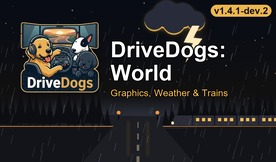
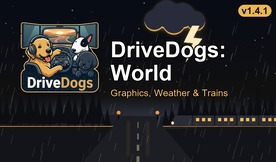
release world 1.4.1 after the playtest: wet roads no longer a mirror (sky mirror 0.5), deeper wheel tracks at 2048, junction wheel tracks, less wet heavy rain and storms

Changed region(s): [[0.7536, 0.0, 0.9855, 0.1235]]

diff --git a/docs/adr/ADR-0002-world-graphics.md b/docs/adr/ADR-0002-world-graphics.md
@@ -2,6 +2,7 @@
 
 - Status: accepted
 - Date: 2026-10-01
+- Amended: 2026-10-31 (1.4.1: wet roads no longer a mirror; decisions 4, 6 and 8)
 
 ## Context
 
@@ -35,6 +36,7 @@
    (`tools/night_climate.py`, `world/climate.yaml`):
    - Rain mix: variants grouped by sky into light/medium/heavy/storm; rain amount and wetness clamped into the
      class; lightning only in the storm class; integer `weight`s for shares day 40/35/18/7, night 45/35/15/5.
+     Day wetness: heavy 0.55-0.70, storm 0.70-0.80 (were 0.60-0.85 / 0.80-0.95 to 1.4.0, a near-mirror road).
      `thunderstorm_probability` 1.0 so the weights alone set the storm share.
    - Night (sun <= -4 deg): rain fog <= 0.0035 from >= 30 m, wetness <= 0.6, rain streak light >= 30.
    - Dawn/dusk (-4 to +10 deg): rain fog <= 0.004 from >= 20 m.
@@ -44,15 +46,21 @@
    everywhere; light ~07:00 and dark ~19:00 in central Germany/Czechia (the map has one clock, so the west runs
    later and the east earlier). Replaces 1061306287. No seasons.
 6. **Realistic Rain Reflections is a tool input, not a source** (`tools/rain_reflections.py`). Its wheel-track
-   puddle normal maps are blended (Reoriented Normal Mapping, BC5, same size and mips) into the 49 winning road
-   normal maps, so Asphalt_improved keeps its surface detail and junctions get puddles too; its reflection/shine
-   values are carried onto 263 base materials. Its colour textures, junction models, headlights, climate and rain
-   files are not used. The blended textures are git-ignored and regenerated by the tool.
+   puddle normal maps are blended (Reoriented Normal Mapping, BC5, at RRR's 2048 px with a full mip chain) into
+   the 49 winning road normal maps, so Asphalt_improved keeps its surface detail. The ruts are strengthened where
+   Asphalt's detail is rough (universal 1.6x, blkw 1.4x, country templates 1.0x), so the tracks reach RRR's own
+   depth. Its reflection/shine values are carried onto 263 base materials; the 58 junction materials 1.61 gives
+   no normal map get the blended map of the road template with the same colour texture (plus `.tsnmapcalc`), so
+   no RRR file ships unblended. Its colour textures, junction models, headlights, climate and rain files are not
+   used. The blended textures are git-ignored and regenerated by the tool.
 7. **Kass:** lightning (20 bolt/cloud sets), thunder bank, and the water textures 1.61 uses (wave maps, river, muddy
    and green water, panorama, Balkan water plants), replacing Beautiful Water; beaches stay grass_4.0's. Its rain
    sounds, particles, spray, windshield, `game_data` and camera are not used.
 8. **Rain look:** Realistic Rain's rain and windshield drops, its streak brightness raised to vanilla's 1.0 (0.6
    made them vanish at night); the game's own wheel spray (Realistic Rain's and Kass's tried and rejected).
+   `rain_planar_strength` and `rain_cube_strength` 0.5 (base 0.9 mirrored the sky evenly across the whole road,
+   a lake); `rain_specular_strength` stays 0.9 for the glare along the wheel tracks. Wet roads need the game's
+   rain reflections and reflection quality set high; at their lowest every version looks dry.
 9. **One archive.** A 6.68 GiB / 10,501-entry HashFS archive (2.7 GB of data and every folder listing past 4 GiB)
    loads clean and no slower than 5 parts. `max_part_bytes` is 32 GiB because the planner estimates Workshop
    sources unpacked (~2.4x).

diff --git a/README.md b/README.md
@@ -9,8 +9,9 @@ Current content (v1.4.0, ETS2 1.61.1.9):
 - **Graphics** from Juninho944 (Weather_3.9, Asphalt_improved, grass_4.0_lite, tree_improved_4k), DIOX (Beautiful
   Nature) and Darkcaptain (Realistic Rain), in the maintainer's load order.
 - **Water, lightning and thunder** from Kass (Realistic Rain & Water & Thunder Sounds).
-- **Wet roads**: Grimes' Realistic Rain Reflections puddles blended into the winning road normal maps, and its
-  wet reflections on sidewalks, tiles, concrete and junctions.
+- **Wet roads**: Grimes' Realistic Rain Reflections wheel tracks blended into the winning road normal maps and
+  junctions, its wet reflections on sidewalks, tiles and concrete, and a softer sky mirror so the asphalt shows
+  through. Needs the game's rain reflections and reflection quality set high.
 - **Road signs and markings** from DBM Road Signs & Markings 4K; **real company and gas station brands** from Real
   companies & gas stations (MLH82, 4of25).
 - **Weather and time**: a rain mix of mostly light and medium rain, lighter rain fog at night so headlights reach and
@@ -83,7 +84,7 @@ them.
 
 | Event | What to do |
 |---|---|
-| Game update | Extract the new base, set `base_game.version`, rerun every tool in the order above (`rain_reflections.py` removes `base_material_fixes.py`'s file from the shared `overrides/automat/` until that one reruns), bump the version, rebuild. Tools and `megapack check` fail loudly on units, files or looks that moved (`base_material_fixes.py` also when SCS fixed a path itself: drop that entry). |
+| Game update | Extract the new base, set `base_game.version`, rerun every tool in the order above, bump the version, rebuild. Tools and `megapack check` fail loudly on units, files or looks that moved (`base_material_fixes.py` also when SCS fixed a path itself: drop that entry). |
 | Source update (Steam re-sync) | `megapack updates` reports it. Re-extract it at the new version, set the version in `sources.yaml`, `megapack lock` (stale `resolutions.yaml` entries need review), rerun the tools and `check_sign_defs.py`, rebuild. |
 | Rain Reflections update | Unzip it to a new `local/rain-reflections/<version>/`, set `RRR_VERSION` in `tools/rain_reflections.py`, rerun it, rebuild. |
 | Bus-stop people (2893480838) update | Extract it with `extract-reference` to `workshop/2893480838/<version>/`, set `MOD_VERSION` in `tools/bus_stop_people.py`, rerun it, compare its definitions with `world/units/`, rebuild. |
